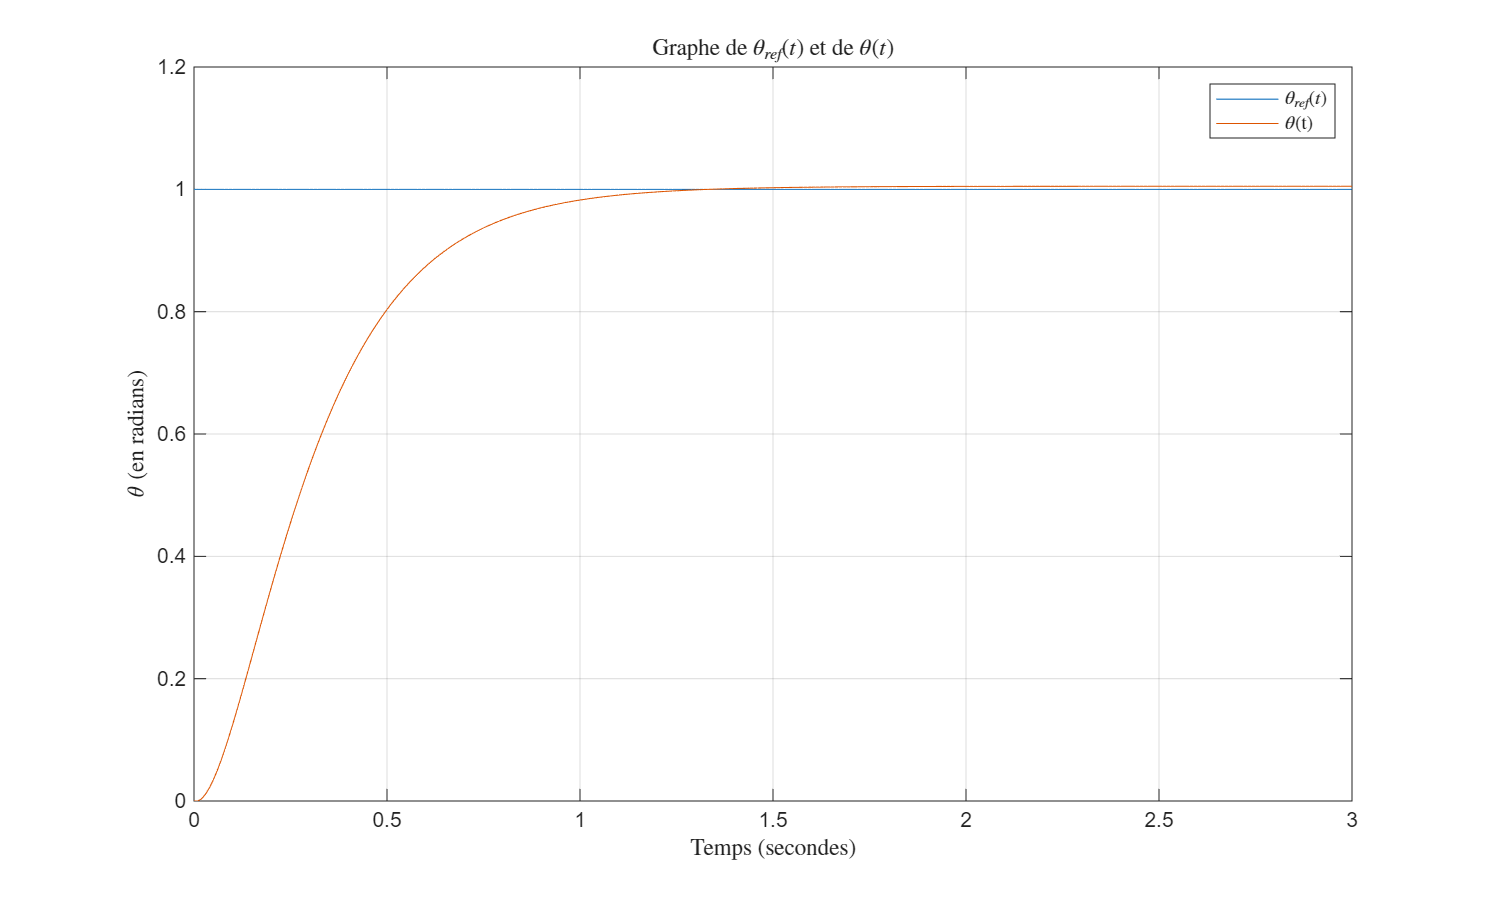
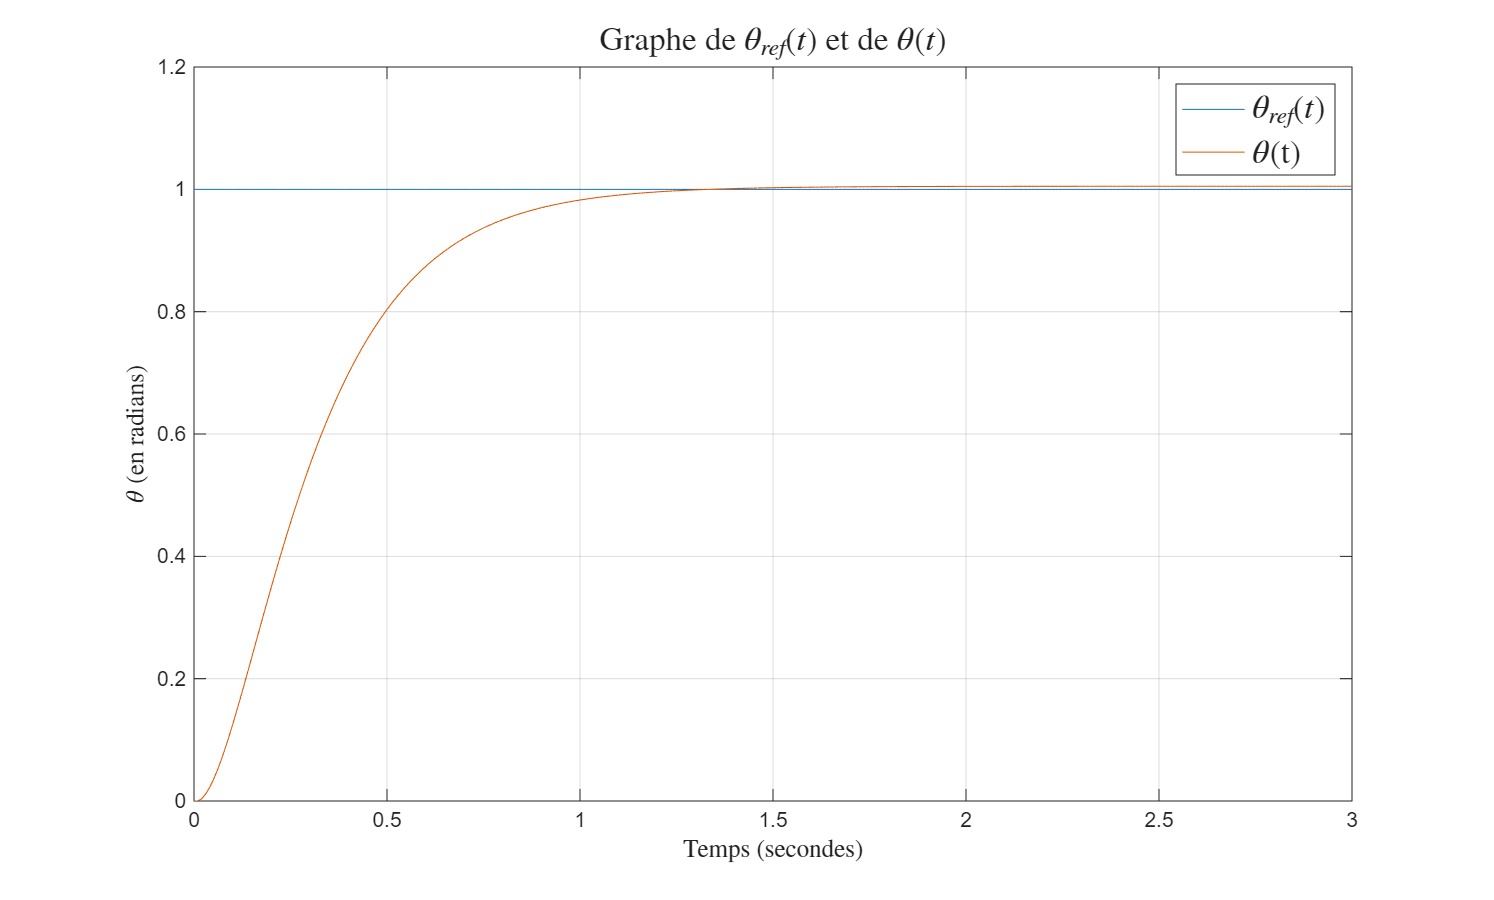
added files

diff --git a/Dev_02/ELE2200_Dev_02_Latex-report/src/Iteration#1Devoir2.tex b/Dev_02/ELE2200_Dev_02_Latex-report/src/Iteration#1Devoir2.tex
@@ -1,0 +1,289 @@
+% Preamble
+\documentclass[11pt]{article}
+
+% Packages
+\usepackage[utf8]{inputenc}
+\usepackage[T1]{fontenc}
+\usepackage[french]{babel}
+\usepackage{amsmath}
+\usepackage{float}
+\usepackage{microtype}
+\usepackage[margin=2.5cm]{geometry}
+\usepackage{listingsutf8}
+\usepackage{xcolor}
+\usepackage{hyperref}
+\usepackage{tikz}
+\usepackage{schemabloc}
+\usepackage{graphicx}
+\usepackage{amssymb}
+
+
+% Configuration pour le code MATLAB
+\lstset{
+    language=Matlab,
+    basicstyle=\ttfamily\small,
+    keywordstyle=\color{blue},
+    commentstyle=\color{green!60!black},
+    stringstyle=\color{red},
+    numbers=left,
+    numberstyle=\tiny\color{gray},
+    stepnumber=1,
+    numbersep=8pt,
+    backgroundcolor=\color{gray!10},
+    showspaces=false,
+    showstringspaces=false,
+    showtabs=false,
+    frame=single,
+    tabsize=4,
+    captionpos=b,
+    breaklines=true,
+    breakatwhitespace=false,
+    escapeinside={\%*}{*)},
+    morekeywords={matlab2tikz},
+    literate={é}{{\'{e}}}1 {è}{{\`{e}}}1 {à}{{\`{a}}}1 {ç}{{\c{c}}}1 {ô}{{\^{o}}}1 {É}{{\'{E}}}1 {ê}{{\^{e}}}1 {û}{{\^{u}}}1 {î}{{\^{i}}}1 {ù}{{\`{u}}}1,
+    inputencoding=utf8,
+    extendedchars=true
+}
+% Document
+\begin{document}
+
+    \begin{titlepage}
+        \centering
+        \vspace*{2cm}
+        {\LARGE \textbf{Polytechnique Montréal}\par}
+        \vspace{0.5cm}
+        {\Large Département de génie électrique\par}
+        \vspace{2cm}
+        {\Huge \textbf{SIGLE -- NOM DE COURS}\par}
+        \vspace{0.5cm}
+        {\Huge \textbf{TITRE DU DEVOIR (Hiver 2026)}\par}
+        \vspace{2cm}
+
+        \begin{flushleft}
+            Costa Diego Alfonso\hfill Matricule : 2374165\\
+            \vspace{0.8cm}
+            \textbf{Date de remise :} DATE DE REMISE\\
+        \end{flushleft}
+
+        \vfill
+        {\large \today\par}
+    \end{titlepage}
+
+
+    \tableofcontents
+    \clearpage
+
+    \section{Introduction}
+    \section{Question 1: Asservissement de l'angle $\theta$}
+    a) Cacluler la fonction de transfert littérale $\frac{\Theta(s)}{\Theta_{ref}(s)}$ \newline
+    Il y a plusieurs approches possibles pour trouver la fonction de transfert $\frac{\Theta(s)}{\Theta_{ref}(s)}$. On peut utiliser les fonctions de MATLAB pour extraire le modèle d'état pour ensuite en déduire la fonction de transfert caractérisant le système. 
+    
+    \lstinputlisting[language=Matlab,linerange={33-40},inputencoding=utf8/latin1]{script_devoir2.m}
+
+    En exécutant les lignes ci-dessus, on obtient la fonction de transfert suivante: \newline 
+    \begin{center}
+        \Large \text{$\frac{\Theta(s)}{\Theta_{ref}(s)}=\frac{39.5s+0.6}{s^3+13.4s^2+39.5s+0.6}$}
+    \end{center}
+    On peut également faire de l'algèbre des diagrammes pour réduire le diagramme fonctionnel de l'angle $\theta$ en un seul bloc: \newline \newline
+
+    \begin{figure}[h!]
+    \centering 
+    \includegraphics[width=0.8\linewidth]{Algebre_Diagrammes1.png}
+    \caption{Étape 1}
+    \end{figure}
+
+    \begin{figure}[h!]
+    \centering 
+    \includegraphics[width=0.8\linewidth]{Algebre_Diagrammes2.png}
+    \caption{Étape 2}
+    \end{figure}
+
+    \begin{figure}[H]
+    \centering 
+    \includegraphics[width=0.8\linewidth]{Algebre_Diagrammes3.png}
+    \caption{Étape 3}
+    \end{figure}
+
+    \begin{figure}[H]
+    \centering 
+    \includegraphics[width=0.8\linewidth]{Algebre_Diagrammes4.png}
+    \caption{Étape 4}
+    \end{figure}
+
+    La forme finale du diagrame fonctionnel de $\theta$ est une boucle de rétroaction négative simple dont la fonction de transfert est: \newline
+
+    \begin{center}
+        \LARGE \text{$\frac{\Theta(s)}{\Theta_{ref}(s)}=\frac{\frac{K_{i\theta}+K_{p\theta}s}{s(s^2+K_{d\theta}s)}}{1+\frac{K_{i\theta}+K_{p\theta}s}{s(s^2+K_{d\theta}s)}}=\frac{K_{i\theta}+K_{p\theta}s}{s(s^2+K_{d\theta}s)+K_{i\theta}+K_{p\theta}s}$} 
+    \end{center}
+
+    \begin{center}
+        $\boxed{\therefore \large \text{$\frac{\Theta(s)}{\Theta_{ref}(s)}=\frac{K_{i\theta}+K_{p\theta}s}{s^3+K_{d\theta}s^2+K_{p\theta}s+K_{i\theta}}$}}$
+    \end{center}
+
+    On voit qu'en remplaçant les valeurs de $K_{p\theta}$, $K_{i\theta}$ et $K_{d\theta}$ par leurs valeurs respectives de 39.5, 0.6 et 13.4, on obtient la même fonction de transfert que celle trouvée avec MATLAB: \newline
+    \begin{center}
+        \LARGE \text{$\frac{\Theta(s)}{\Theta_{ref}(s)}=\frac{39.5s+0.6}{s^3+13.4s^2+39.5s+0.6}$}
+    \end{center}
+    
+    \newpage
+
+    b) Tracer $\theta(t)$ et $\theta_{ref}(t)$ \newline
+    Pour tracer les courbes de $\theta(t)$ et $\theta_{ref}(t)$, nous avons fait un diagramme fonctionnel identique à celui de la figure 2 de l'énoncé du devoir:
+
+    \begin{figure}[H]
+    \centering 
+    \fbox{\includegraphics[width=0.8\linewidth]{Schema_Fonctionnel_angle.png}}
+    \caption{Diagramme fonctionnel de l'angle $\theta$}
+    \end{figure}
+    Ensuite, nous avons écrit le script MATLAB suivant dans le fichier \text{script-devoir2.m}: \newline
+    
+    \lstinputlisting[language=Matlab,linerange={45-61},inputencoding=utf8/latin1]{script_devoir2.m} 
+	\newpage
+    En exécutant le code ci-dessus, on obtient le graphe suivant: \newline
+    
+    \begin{figure}[H]
+    \centering 
+    \includegraphics[width=0.8\linewidth]{Graphe_Q1_b).png}
+    \caption{Graphe de $\theta(t)$ et $\theta_{ref}(t)$}
+    \end{figure}
+
+    La réponse $\theta(t)$ à l'entrée échelon unité $\theta_{ref}(t)$ a bel et bien le comportement attendu. On s'attendait à ce que le système soit stable en régime permanent car les pôles de la fonction de transfert sont tous du côté gauche du plan complexe. En utilisant la fonction "pole()" et en y mettant la fonction de transfert déclarée auparavant en argument, on obtient les valeurs  -9.0359, -4.3488 et -0.0153 qui sont toutes dans la partie gauche du plan complexe. Puisque l'entrée est un échelon unité et que le critère de stabilité est respecté (pôles), il est normal que la sortie se stabilise vers la forme de l'entrée lorsque le système entre en régime permanent, i.e. que la sortie $\theta(t)$ tende vers 1 lorsque t tend vers l'infini.
+\newline 
+    
+    
+    \section{Question 2: Contrôle de la position en x et y}
+    a) Boucle en commande en y: calculer $\frac{Y(s)}{Y_{ref}(s)}$ \newline
+    Il y a plusieurs approches possibles. On peut le trouver à l'aide de MATLAB et Simulink. D'abord, on effectue le diagramme fonctionnel de la commande en y dans Simulink (identique à celui de la figure 4 de l'énoncé): \newline
+
+    \begin{figure}[H]
+    \centering 
+    \includegraphics[width=0.8\linewidth]{Diagramme_Y.png}
+    \caption{Diagramme fonctionnel de la commande en y}
+    \end{figure}
+    
+    Ensuite, on fait exéctuer le script MATLAB suivant: \newline
+    
+     \lstinputlisting[language=Matlab,linerange={77-84},inputencoding=utf8/latin1]{script_devoir2.m}
+     On obtient la fonction de transfert suivante: \newline
+     \begin{center}
+     \LARGE \text{$\frac{Y(s)}{Y_{ref}(s)}=\frac{75s+125}{s^3+15s^2+75s+125}$}
+     \end{center}
+     On peut aussi obtenir la fonction de transfert en faisant de l'algèbre des diagrammes avec le diagramme fonctionnel de la commande en y. \newline 
+    \begin{figure}[H]
+    \centering 
+    \includegraphics[width=0.8\linewidth]{Algebre_Y1.png}
+    \caption{Étape 1}
+    \end{figure}
+    
+    \begin{figure}[H]
+    \centering 
+    \includegraphics[width=0.8\linewidth]{Algebre_Y2.png}
+    \caption{Étape 2}
+    \end{figure}
+    
+    \begin{figure}[H]
+    \centering 
+    \includegraphics[width=0.8\linewidth]{Algebre_Y3.png}
+    \caption{Étape 3}
+    \end{figure}
+    
+    \begin{figure}[H]
+    \centering 
+    \includegraphics[width=0.8\linewidth]{Algebre_Y4.png}
+    \caption{Étape 4}
+    \end{figure}
+    La forme à l'étape 4 ci-dessus est celle d'une simple boucle de rétroaction négative dont la fonction de transfert est: \newline
+	\begin{center}	
+	\LARGE \text{$\frac{Y(s)}{Y_{ref}(s)}=\frac{\frac{K_{iy}+K_{py}s}{s^2(ms+K_{dy})}}{1+\frac{K_{iy}+K_{py}s}{s^2(ms+K_{dy})}}=\frac{K_{iy}+K_{py}s}{s^2(ms+K_{dy})+K_{iy}+K_{py}s}$} \newline 
+	\large \text{$\boxed{\therefore \frac{Y(s)}{Y_{ref}(s)}=\frac{K_{iy}+K_{py}s}{ms^3+K_{dy}s^2+K_{py}s+K_{iy}}}$}  
+    \end{center}
+
+	b) Boucle en commande en x: calculer $\frac{X(s)}{X_{ref}(s)}$
+	
+	Encore une fois, il existe plusieurs approches. On peut la calculer en utilisant MATLAB et Simulink. D'abord, on fait le diagramme fonctionnel suivant sur Simulink:
+	\begin{figure}[H]
+    \centering 
+    \includegraphics[width=0.8\linewidth]{Schema_X_Q2b.png}
+    \caption{Diagramme fonctionnel de la commande en x} 
+    \end{figure}
+    On écrit le script suivant sur MATLAB:
+     \lstinputlisting[language=Matlab,linerange={90-97},inputencoding=utf8/latin1]{script_devoir2.m} 
+     Puis on obtient la fonction de transfert suivante: \newline
+     \begin{center}
+		\LARGE \text{$\frac{X(s)}{X_{ref}(s)}=\frac{4.316s+1.727}{s^3+3.6s^2+4.316s+1.727}$}     
+     \end{center}
+On peut aussi faire de l'algèbre des diagrammes pour obtenir la fonction de transfert, mais sous forme littérale (i.e. avec les variables $K_{px}$, $K_{ix}$, $K_{dx}$ laissées telles quelles):
+
+	\begin{figure}[H]
+    \centering 
+    \includegraphics[width=0.8\linewidth]{Algebre_X1.png}
+    \caption{Étape 1} 
+    \end{figure}
+    
+    \begin{figure}[H]
+    \centering 
+    \includegraphics[width=0.8\linewidth]{Algebre_X2.png}
+    \caption{Étape 2} 
+    \end{figure}
+    
+    \begin{figure}[H]
+    \centering 
+    \includegraphics[width=0.8\linewidth]{Algebre_X3.png}
+    \caption{Étape 3} 
+    \end{figure}
+    
+    \begin{figure}[H]
+    \centering 
+    \includegraphics[width=0.8\linewidth]{Algebre_X4.png}
+    \caption{Étape 4} 
+    \end{figure}
+Le diagramme ci-dessus correspond à la forme d'un système bouclé simple, en rétroaction négative, dont la fonction de transfert est la suivante: \newline
+
+	\begin{center}
+	\LARGE \text{$\frac{X(s)}{X_{ref}(s)}=\frac{\frac{-g(K_{ix}+K_{px}s)}{s^2(s-K_{dx}g)}}{1+\frac{-g(K_{ix}+K_{px}s)}{s^2(s-K_{dx}g)}}=\frac{-gK_{ix}-gK_{px}s}{s^3-gK_{dx}s^2-gK_{px}s-gK_{ix}}$} \newline 
+	 \large \text{$\boxed{\therefore \frac{X(s)}{X_{ref}(s)}=\frac{-gK_{ix}-gK_{px}s}{s^3-gK_{dx}s^2-gK_{px}s-gK_{ix}}}$}
+	\end{center}
+En remplaçant $K_{px}$, $K_{ix}$, $K_{dx}$ et $g$ par leurs valeurs numériques respectives (i.e. respectivement -0.440, -0.176, -0.367 et 9.81), on retrouve la fonction de transfert trouvée sur MATLAB: \newline 
+	\begin{center}
+		\LARGE \text{$\frac{X(s)}{X_{ref}(s)}=\frac{-(9.81)(-0.176)-(9.81)(-0.440)s}{s^3-(9.81)(-0.367)s^2-(9.81)(-0.440)s-(9.81)(-0.176)}=\frac{1.727+4.316s}{s^3+3.6s^2+4.316s+1.727}$}
+	\end{center}
+	
+c) Réponses indicielles $x(t)$ et $y(t)$ \newline \newline
+On doit tracer les réponses indicielles $x(t)$ et $y(t)$ lorsque les entrées $x_{ref}(t)$ et $y_{ref}(t)$ sont respectivement des échelons unitaires. On effectue le diagramme fonctionnel ci-dessous sur Simulink: \newline
+
+	\begin{figure}[H]
+    \centering 
+    \includegraphics[width=0.8\linewidth]{Diagrammes_X_Y.png}
+    \caption{Diagrammes fonctionnels des boucles en x et y} 
+    \end{figure}
+    
+Ensuite, on exécute le script suivant sur MATLAB: \newline
+     \lstinputlisting[language=Matlab,linerange={106-122},inputencoding=utf8/latin1]{script_devoir2.m}
+     
+On obtiens le graphe suivant:
+    \begin{figure}[H]
+    \centering
+    \includegraphics[width=0.8\linewidth]{Graphe_Q2_c.png}
+    \caption{Graphe des positions x(t) et y(t) pour une entrée échelon unité} 
+    \end{figure}
+    
+En utilisant la fonction "stepinfo()" de MATLAB (où les arguments des fonctions "linmod(...)" sont des fichiers Simulink), pour chaque boucle (en x et en y):
+ \lstinputlisting[language=Matlab,linerange={77-85},inputencoding=utf8/latin1]{script_devoir2.m}
+  \lstinputlisting[language=Matlab,linerange={91-99},inputencoding=utf8/latin1]{script_devoir2.m}
+  on obtient les résultats suivants: \newline
+  \begin{table}[H]
+	\centering
+	\resizebox{0.8\textwidth}{!}{
+	\begin{tabular}{|c|c|c|}
+	\hline
+	Boucle & Dépassement (\%) & Temps de réponse à 2\% (secondes) \\
+	\hline
+	x & 25 & 6.58 \\
+	\hline
+	y & 25 & 1.58 \\
+	\hline
+	\end{tabular}}
+	\caption{Dépassement et temps de réponse à 2\% pour les boucles en x et en y}
+	\end{table} 
+D'abord, on peut remarquer que les résultats du tableau 1 ci-dessus correspondent au graphe de la figure 18 i.e. le graphe des réponses indicielles $x(t)$ et $y(t)$. En effet, on peut constater que $y(t)$ se stabilise plus rapidement vers 1 que $x(t)$, ce qui concorde avec les résultats du tableau 1. On constate également que le dépassement est de 25\% pour les deux boucles. En effet, on peut voir dans le graphe de la figure 18 que les deux courbes $x(t)$ et $y(t)$ ont bel et bien la même valeur maximale, d'où la valeur de dépassement identique aux deux boucles. En somme, le régime transitoire de $y(t)$ est plus court que celui de $x(t)$. La réponse $y(t)$ atteint le même valeur maximale que la réponse $x(t)$, mais plus rapidement et elle décroit et se stabilise plus rapidement vers 1 (forme de l'entrée, qui est un échelon unité).
+\end{document}
